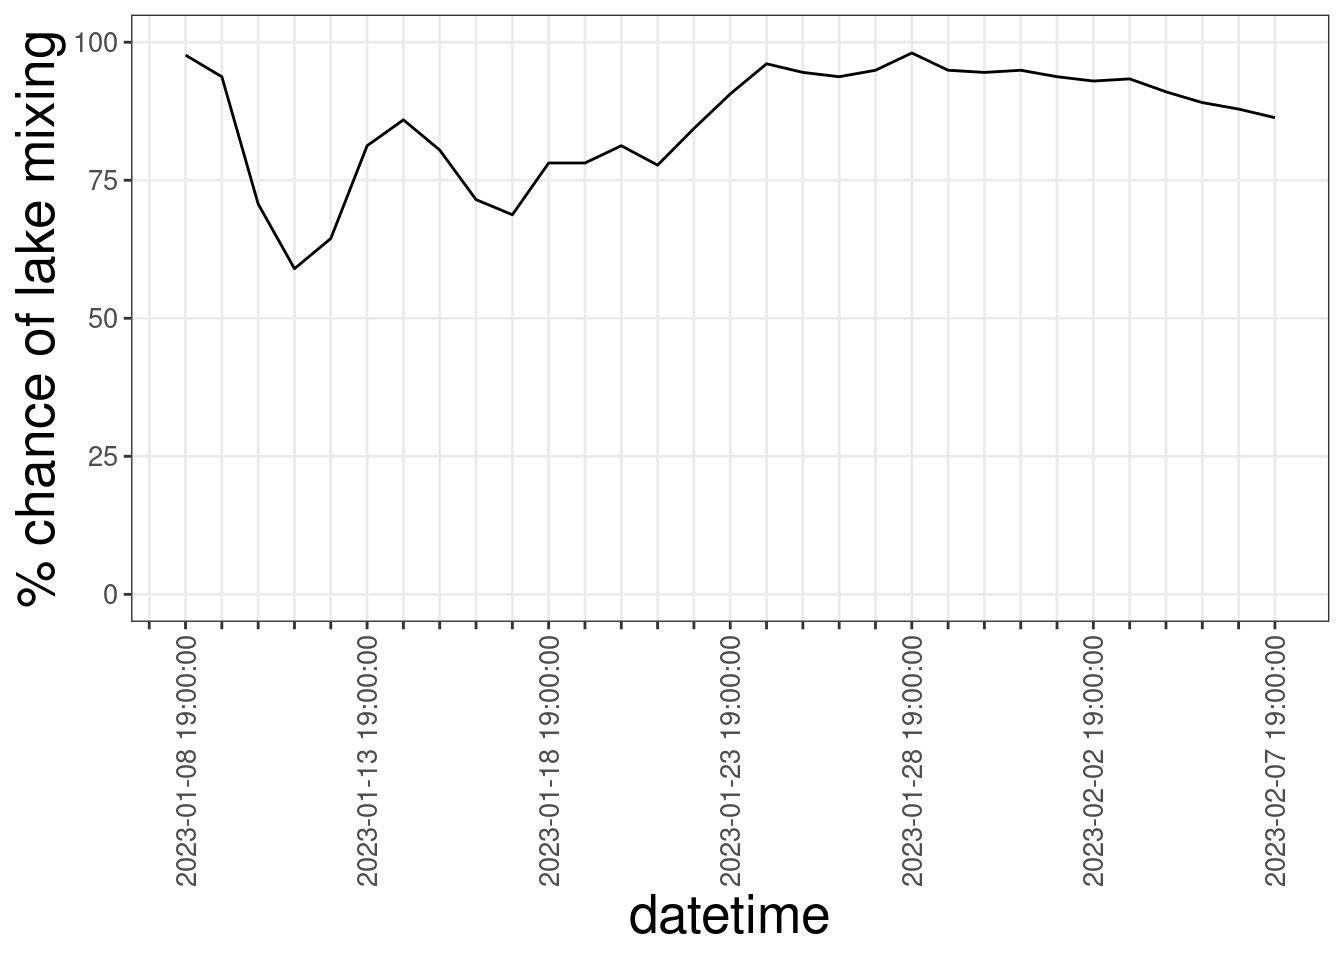
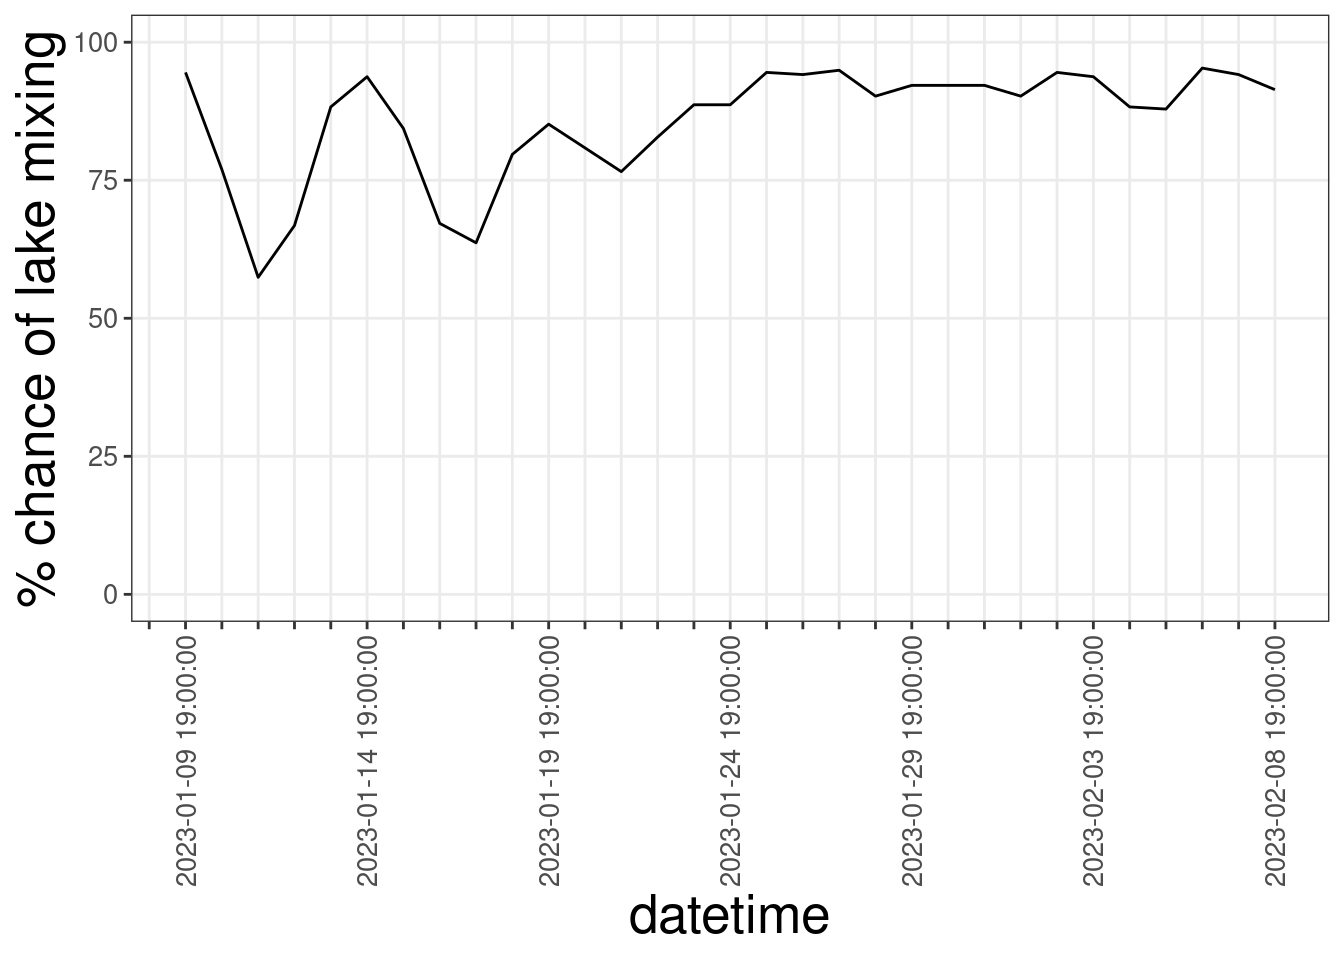
Re-build site

diff --git a/docs/index.html b/docs/index.html
@@ -163,15 +163,15 @@ background-size: cover;
 
 
 <p>Welcome to the Forecasting Lake and Reservoir Ecosystems (FLARE) dashboard!</p>
-<p>This page was last updated on 2023-01-10 07:25:40 (Eastern U.S. time).</p>
+<p>This page was last updated on 2023-01-10 11:37:10 (Eastern U.S. time).</p>
 <p>This dashboard provides daily updates to visualize recent water quality forecasts generated across the world using FLARE system. FLARE iterative updates model simulations using real-time data and quantifies uncertainty in forecasts.</p>
 <section id="flare-sites" class="level3">
 <h3 class="anchored" data-anchor-id="flare-sites">FLARE sites</h3>
 <div class="cell" data-fig.showtext="false">
 <div class="cell-output-display">
 
-<div class="leaflet html-widget html-fill-item-overflow-hidden html-fill-item" id="htmlwidget-b65c73ffd28a7ad15b56" style="width:100%;height:650px;"></div>
-<script type="application/json" data-for="htmlwidget-b65c73ffd28a7ad15b56">{"x":{"options":{"crs":{"crsClass":"L.CRS.EPSG3857","code":null,"proj4def":null,"projectedBounds":null,"options":{}}},"calls":[{"method":"createMapPane","args":["tmap401",401]},{"method":"addProviderTiles","args":["Esri.WorldGrayCanvas",null,"Esri.WorldGrayCanvas",{"minZoom":0,"maxZoom":18,"tileSize":256,"subdomains":"abc","errorTileUrl":"","tms":false,"noWrap":false,"zoomOffset":0,"zoomReverse":false,"opacity":1,"zIndex":1,"detectRetina":false,"pane":"tilePane"}]},{"method":"addProviderTiles","args":["OpenStreetMap",null,"OpenStreetMap",{"minZoom":0,"maxZoom":18,"tileSize":256,"subdomains":"abc","errorTileUrl":"","tms":false,"noWrap":false,"zoomOffset":0,"zoomReverse":false,"opacity":1,"zIndex":1,"detectRetina":false,"pane":"tilePane"}]},{"method":"addProviderTiles","args":["Esri.WorldTopoMap",null,"Esri.WorldTopoMap",{"minZoom":0,"maxZoom":18,"tileSize":256,"subdomains":"abc","errorTileUrl":"","tms":false,"noWrap":false,"zoomOffset":0,"zoomReverse":false,"opacity":1,"zIndex":1,"detectRetina":false,"pane":"tilePane"}]},{"method":"addCircles","args":[[40.2419273912824,35.9955658018487,43.3756101974323,37.2255582212371,30.7934059097805,46.5521470693526,47.08070045983,47.8643887627216,45.3288974492261,33.9845756605613,-34.5141110583632,71.8693548012686],[-80.1352698445389,-82.5261592927336,-72.1752066226015,-79.8497821292904,-85.415477798547,-88.3188734440767,-88.8535741094785,-102.433177172102,-99.8729115931745,-84.1232383148497,-217.635920566558,-146.936677944095],[257151.026484173,257151.026484173,257151.026484173,257151.026484173,257151.026484173,257151.026484173,257151.026484173,257151.026484173,257151.026484173,257151.026484173,257151.026484173,257151.026484173],["Falling.Creek","Beaver.Dam","Lake.Sunapee","Carvins.Cove.Reservoir","Barco.Lake","Crampton.Lake","Little.Rock.Lake","Prairie.Lake","Prairie.Pothole","Suggs.Lake","Lake.Alexandrina","Toolik.Lake"],"neon",{"interactive":true,"className":"","pane":"tmap401","stroke":true,"color":"#666666","weight":1,"opacity":0.5,"fill":true,"fillColor":["#FB8072","#FB8072","#8DD3C7","#FB8072","#FFFFB3","#FFFFB3","#FFFFB3","#FFFFB3","#FFFFB3","#FFFFB3","#BEBADA","#FFFFB3"],"fillOpacity":[1,1,1,1,1,1,1,1,1,1,1,1]},["<style> div.leaflet-popup-content {width:auto !important;overflow-y:auto; overflow-x:hidden;}<\/style><div style=\"max-height:25em;padding-right:0px;\"><table>\n\t\t\t   <thead><tr><th colspan=\"2\"><b>Falling Creek<\/b><\/th><\/thead><\/tr><tr><td style=\"color: #888888;\"><nobr>site_id<\/nobr><\/td><td align=\"right\"><nobr>Falling Creek<\/nobr><\/td><\/tr><\/table><\/div>","<style> div.leaflet-popup-content {width:auto !important;overflow-y:auto; overflow-x:hidden;}<\/style><div style=\"max-height:25em;padding-right:0px;\"><table>\n\t\t\t   <thead><tr><th colspan=\"2\"><b>Beaver Dam<\/b><\/th><\/thead><\/tr><tr><td style=\"color: #888888;\"><nobr>site_id<\/nobr><\/td><td align=\"right\"><nobr>Beaver Dam<\/nobr><\/td><\/tr><\/table><\/div>","<style> div.leaflet-popup-content {width:auto !important;overflow-y:auto; overflow-x:hidden;}<\/style><div style=\"max-height:25em;padding-right:0px;\"><table>\n\t\t\t   <thead><tr><th colspan=\"2\"><b>Lake Sunapee<\/b><\/th><\/thead><\/tr><tr><td style=\"color: #888888;\"><nobr>site_id<\/nobr><\/td><td align=\"right\"><nobr>Lake Sunapee<\/nobr><\/td><\/tr><\/table><\/div>","<style> div.leaflet-popup-content {width:auto !important;overflow-y:auto; overflow-x:hidden;}<\/style><div style=\"max-height:25em;padding-right:0px;\"><table>\n\t\t\t   <thead><tr><th colspan=\"2\"><b>Carvins Cove Reservoir<\/b><\/th><\/thead><\/tr><tr><td style=\"color: #888888;\"><nobr>site_id<\/nobr><\/td><td align=\"right\"><nobr>Carvins Cove Reservoir<\/nobr><\/td><\/tr><\/table><\/div>","<style> div.leaflet-popup-content {width:auto !important;overflow-y:auto; overflow-x:hidden;}<\/style><div style=\"max-height:25em;padding-right:0px;\"><table>\n\t\t\t   <thead><tr><th colspan=\"2\"><b>Barco Lake<\/b><\/th><\/thead><\/tr><tr><td style=\"color: #888888;\"><nobr>site_id<\/nobr><\/td><td align=\"right\"><nobr>Barco Lake<\/nobr><\/td><\/tr><\/table><\/div>","<style> div.leaflet-popup-content {width:auto !important;overflow-y:auto; overflow-x:hidden;}<\/style><div style=\"max-height:25em;padding-right:0px;\"><table>\n\t\t\t   <thead><tr><th colspan=\"2\"><b>Crampton Lake<\/b><\/th><\/thead><\/tr><tr><td style=\"color: #888888;\"><nobr>site_id<\/nobr><\/td><td align=\"right\"><nobr>Crampton Lake<\/nobr><\/td><\/tr><\/table><\/div>","<style> div.leaflet-popup-content {width:auto !important;overflow-y:auto; overflow-x:hidden;}<\/style><div style=\"max-height:25em;padding-right:0px;\"><table>\n\t\t\t   <thead><tr><th colspan=\"2\"><b>Little Rock Lake<\/b><\/th><\/thead><\/tr><tr><td style=\"color: #888888;\"><nobr>site_id<\/nobr><\/td><td align=\"right\"><nobr>Little Rock Lake<\/nobr><\/td><\/tr><\/table><\/div>","<style> div.leaflet-popup-content {width:auto !important;overflow-y:auto; overflow-x:hidden;}<\/style><div style=\"max-height:25em;padding-right:0px;\"><table>\n\t\t\t   <thead><tr><th colspan=\"2\"><b>Prairie Lake<\/b><\/th><\/thead><\/tr><tr><td style=\"color: #888888;\"><nobr>site_id<\/nobr><\/td><td align=\"right\"><nobr>Prairie Lake<\/nobr><\/td><\/tr><\/table><\/div>","<style> div.leaflet-popup-content {width:auto !important;overflow-y:auto; overflow-x:hidden;}<\/style><div style=\"max-height:25em;padding-right:0px;\"><table>\n\t\t\t   <thead><tr><th colspan=\"2\"><b>Prairie Pothole<\/b><\/th><\/thead><\/tr><tr><td style=\"color: #888888;\"><nobr>site_id<\/nobr><\/td><td align=\"right\"><nobr>Prairie Pothole<\/nobr><\/td><\/tr><\/table><\/div>","<style> div.leaflet-popup-content {width:auto !important;overflow-y:auto; overflow-x:hidden;}<\/style><div style=\"max-height:25em;padding-right:0px;\"><table>\n\t\t\t   <thead><tr><th colspan=\"2\"><b>Suggs Lake<\/b><\/th><\/thead><\/tr><tr><td style=\"color: #888888;\"><nobr>site_id<\/nobr><\/td><td align=\"right\"><nobr>Suggs Lake<\/nobr><\/td><\/tr><\/table><\/div>","<style> div.leaflet-popup-content {width:auto !important;overflow-y:auto; overflow-x:hidden;}<\/style><div style=\"max-height:25em;padding-right:0px;\"><table>\n\t\t\t   <thead><tr><th colspan=\"2\"><b>Lake Alexandrina<\/b><\/th><\/thead><\/tr><tr><td style=\"color: #888888;\"><nobr>site_id<\/nobr><\/td><td align=\"right\"><nobr>Lake Alexandrina<\/nobr><\/td><\/tr><\/table><\/div>","<style> div.leaflet-popup-content {width:auto !important;overflow-y:auto; overflow-x:hidden;}<\/style><div style=\"max-height:25em;padding-right:0px;\"><table>\n\t\t\t   <thead><tr><th colspan=\"2\"><b>Toolik Lake<\/b><\/th><\/thead><\/tr><tr><td style=\"color: #888888;\"><nobr>site_id<\/nobr><\/td><td align=\"right\"><nobr>Toolik Lake<\/nobr><\/td><\/tr><\/table><\/div>"],null,["Falling Creek","Beaver Dam","Lake Sunapee","Carvins Cove Reservoir","Barco Lake","Crampton Lake","Little Rock Lake","Prairie Lake","Prairie Pothole","Suggs Lake","Lake Alexandrina","Toolik Lake"],{"interactive":false,"permanent":false,"direction":"auto","opacity":1,"offset":[0,0],"textsize":"10px","textOnly":false,"className":"","sticky":true},null,null]},{"method":"addLegend","args":[{"colors":["#8DD3C7","#FFFFB3","#BEBADA","#FB8072"],"labels":["LSPA","NEON","UWA","WVWA"],"na_color":null,"na_label":"NA","opacity":1,"position":"topright","type":"unknown","title":"Partner","extra":null,"layerId":"legend401","className":"info legend neon","group":"neon"}]},{"method":"addLayersControl","args":[["Esri.WorldGrayCanvas","OpenStreetMap","Esri.WorldTopoMap"],"neon",{"collapsed":true,"autoZIndex":true,"position":"topleft"}]}],"limits":{"lat":[-34.5141110583632,71.8693548012686],"lng":[-217.635920566558,-72.1752066226015]},"fitBounds":[-35.436808,-260,68.630692,-74,[]]},"evals":[],"jsHooks":[]}</script>
+<div class="leaflet html-widget html-fill-item-overflow-hidden html-fill-item" id="htmlwidget-7d3ec7cb6afabbe7321c" style="width:100%;height:650px;"></div>
+<script type="application/json" data-for="htmlwidget-7d3ec7cb6afabbe7321c">{"x":{"options":{"crs":{"crsClass":"L.CRS.EPSG3857","code":null,"proj4def":null,"projectedBounds":null,"options":{}}},"calls":[{"method":"createMapPane","args":["tmap401",401]},{"method":"addProviderTiles","args":["Esri.WorldGrayCanvas",null,"Esri.WorldGrayCanvas",{"minZoom":0,"maxZoom":18,"tileSize":256,"subdomains":"abc","errorTileUrl":"","tms":false,"noWrap":false,"zoomOffset":0,"zoomReverse":false,"opacity":1,"zIndex":1,"detectRetina":false,"pane":"tilePane"}]},{"method":"addProviderTiles","args":["OpenStreetMap",null,"OpenStreetMap",{"minZoom":0,"maxZoom":18,"tileSize":256,"subdomains":"abc","errorTileUrl":"","tms":false,"noWrap":false,"zoomOffset":0,"zoomReverse":false,"opacity":1,"zIndex":1,"detectRetina":false,"pane":"tilePane"}]},{"method":"addProviderTiles","args":["Esri.WorldTopoMap",null,"Esri.WorldTopoMap",{"minZoom":0,"maxZoom":18,"tileSize":256,"subdomains":"abc","errorTileUrl":"","tms":false,"noWrap":false,"zoomOffset":0,"zoomReverse":false,"opacity":1,"zIndex":1,"detectRetina":false,"pane":"tilePane"}]},{"method":"addCircles","args":[[35.9169609386862,37.0045124199095,42.3782749645038,37.0510440172506,31.6805673555669,45.0981357097079,47.6468234472092,48.4561995265473,49.4164921573669,29.17364173548,-35.0194896005535,68.622506489134],[-83.6099320853759,-79.1979686997499,-72.7011414976695,-79.121246796776,-79.1636512875493,-86.9083374572015,-88.086958187396,-99.6585016596734,-99.9412849233391,-79.5788381134474,-219.885628317715,-149.207467801515],[257151.026484173,257151.026484173,257151.026484173,257151.026484173,257151.026484173,257151.026484173,257151.026484173,257151.026484173,257151.026484173,257151.026484173,257151.026484173,257151.026484173],["Falling.Creek","Beaver.Dam","Lake.Sunapee","Carvins.Cove.Reservoir","Barco.Lake","Crampton.Lake","Little.Rock.Lake","Prairie.Lake","Prairie.Pothole","Suggs.Lake","Lake.Alexandrina","Toolik.Lake"],"neon",{"interactive":true,"className":"","pane":"tmap401","stroke":true,"color":"#666666","weight":1,"opacity":0.5,"fill":true,"fillColor":["#FB8072","#FB8072","#8DD3C7","#FB8072","#FFFFB3","#FFFFB3","#FFFFB3","#FFFFB3","#FFFFB3","#FFFFB3","#BEBADA","#FFFFB3"],"fillOpacity":[1,1,1,1,1,1,1,1,1,1,1,1]},["<style> div.leaflet-popup-content {width:auto !important;overflow-y:auto; overflow-x:hidden;}<\/style><div style=\"max-height:25em;padding-right:0px;\"><table>\n\t\t\t   <thead><tr><th colspan=\"2\"><b>Falling Creek<\/b><\/th><\/thead><\/tr><tr><td style=\"color: #888888;\"><nobr>site_id<\/nobr><\/td><td align=\"right\"><nobr>Falling Creek<\/nobr><\/td><\/tr><\/table><\/div>","<style> div.leaflet-popup-content {width:auto !important;overflow-y:auto; overflow-x:hidden;}<\/style><div style=\"max-height:25em;padding-right:0px;\"><table>\n\t\t\t   <thead><tr><th colspan=\"2\"><b>Beaver Dam<\/b><\/th><\/thead><\/tr><tr><td style=\"color: #888888;\"><nobr>site_id<\/nobr><\/td><td align=\"right\"><nobr>Beaver Dam<\/nobr><\/td><\/tr><\/table><\/div>","<style> div.leaflet-popup-content {width:auto !important;overflow-y:auto; overflow-x:hidden;}<\/style><div style=\"max-height:25em;padding-right:0px;\"><table>\n\t\t\t   <thead><tr><th colspan=\"2\"><b>Lake Sunapee<\/b><\/th><\/thead><\/tr><tr><td style=\"color: #888888;\"><nobr>site_id<\/nobr><\/td><td align=\"right\"><nobr>Lake Sunapee<\/nobr><\/td><\/tr><\/table><\/div>","<style> div.leaflet-popup-content {width:auto !important;overflow-y:auto; overflow-x:hidden;}<\/style><div style=\"max-height:25em;padding-right:0px;\"><table>\n\t\t\t   <thead><tr><th colspan=\"2\"><b>Carvins Cove Reservoir<\/b><\/th><\/thead><\/tr><tr><td style=\"color: #888888;\"><nobr>site_id<\/nobr><\/td><td align=\"right\"><nobr>Carvins Cove Reservoir<\/nobr><\/td><\/tr><\/table><\/div>","<style> div.leaflet-popup-content {width:auto !important;overflow-y:auto; overflow-x:hidden;}<\/style><div style=\"max-height:25em;padding-right:0px;\"><table>\n\t\t\t   <thead><tr><th colspan=\"2\"><b>Barco Lake<\/b><\/th><\/thead><\/tr><tr><td style=\"color: #888888;\"><nobr>site_id<\/nobr><\/td><td align=\"right\"><nobr>Barco Lake<\/nobr><\/td><\/tr><\/table><\/div>","<style> div.leaflet-popup-content {width:auto !important;overflow-y:auto; overflow-x:hidden;}<\/style><div style=\"max-height:25em;padding-right:0px;\"><table>\n\t\t\t   <thead><tr><th colspan=\"2\"><b>Crampton Lake<\/b><\/th><\/thead><\/tr><tr><td style=\"color: #888888;\"><nobr>site_id<\/nobr><\/td><td align=\"right\"><nobr>Crampton Lake<\/nobr><\/td><\/tr><\/table><\/div>","<style> div.leaflet-popup-content {width:auto !important;overflow-y:auto; overflow-x:hidden;}<\/style><div style=\"max-height:25em;padding-right:0px;\"><table>\n\t\t\t   <thead><tr><th colspan=\"2\"><b>Little Rock Lake<\/b><\/th><\/thead><\/tr><tr><td style=\"color: #888888;\"><nobr>site_id<\/nobr><\/td><td align=\"right\"><nobr>Little Rock Lake<\/nobr><\/td><\/tr><\/table><\/div>","<style> div.leaflet-popup-content {width:auto !important;overflow-y:auto; overflow-x:hidden;}<\/style><div style=\"max-height:25em;padding-right:0px;\"><table>\n\t\t\t   <thead><tr><th colspan=\"2\"><b>Prairie Lake<\/b><\/th><\/thead><\/tr><tr><td style=\"color: #888888;\"><nobr>site_id<\/nobr><\/td><td align=\"right\"><nobr>Prairie Lake<\/nobr><\/td><\/tr><\/table><\/div>","<style> div.leaflet-popup-content {width:auto !important;overflow-y:auto; overflow-x:hidden;}<\/style><div style=\"max-height:25em;padding-right:0px;\"><table>\n\t\t\t   <thead><tr><th colspan=\"2\"><b>Prairie Pothole<\/b><\/th><\/thead><\/tr><tr><td style=\"color: #888888;\"><nobr>site_id<\/nobr><\/td><td align=\"right\"><nobr>Prairie Pothole<\/nobr><\/td><\/tr><\/table><\/div>","<style> div.leaflet-popup-content {width:auto !important;overflow-y:auto; overflow-x:hidden;}<\/style><div style=\"max-height:25em;padding-right:0px;\"><table>\n\t\t\t   <thead><tr><th colspan=\"2\"><b>Suggs Lake<\/b><\/th><\/thead><\/tr><tr><td style=\"color: #888888;\"><nobr>site_id<\/nobr><\/td><td align=\"right\"><nobr>Suggs Lake<\/nobr><\/td><\/tr><\/table><\/div>","<style> div.leaflet-popup-content {width:auto !important;overflow-y:auto; overflow-x:hidden;}<\/style><div style=\"max-height:25em;padding-right:0px;\"><table>\n\t\t\t   <thead><tr><th colspan=\"2\"><b>Lake Alexandrina<\/b><\/th><\/thead><\/tr><tr><td style=\"color: #888888;\"><nobr>site_id<\/nobr><\/td><td align=\"right\"><nobr>Lake Alexandrina<\/nobr><\/td><\/tr><\/table><\/div>","<style> div.leaflet-popup-content {width:auto !important;overflow-y:auto; overflow-x:hidden;}<\/style><div style=\"max-height:25em;padding-right:0px;\"><table>\n\t\t\t   <thead><tr><th colspan=\"2\"><b>Toolik Lake<\/b><\/th><\/thead><\/tr><tr><td style=\"color: #888888;\"><nobr>site_id<\/nobr><\/td><td align=\"right\"><nobr>Toolik Lake<\/nobr><\/td><\/tr><\/table><\/div>"],null,["Falling Creek","Beaver Dam","Lake Sunapee","Carvins Cove Reservoir","Barco Lake","Crampton Lake","Little Rock Lake","Prairie Lake","Prairie Pothole","Suggs Lake","Lake Alexandrina","Toolik Lake"],{"interactive":false,"permanent":false,"direction":"auto","opacity":1,"offset":[0,0],"textsize":"10px","textOnly":false,"className":"","sticky":true},null,null]},{"method":"addLegend","args":[{"colors":["#8DD3C7","#FFFFB3","#BEBADA","#FB8072"],"labels":["LSPA","NEON","UWA","WVWA"],"na_color":null,"na_label":"NA","opacity":1,"position":"topright","type":"unknown","title":"Partner","extra":null,"layerId":"legend401","className":"info legend neon","group":"neon"}]},{"method":"addLayersControl","args":[["Esri.WorldGrayCanvas","OpenStreetMap","Esri.WorldTopoMap"],"neon",{"collapsed":true,"autoZIndex":true,"position":"topleft"}]}],"limits":{"lat":[-35.0194896005535,68.622506489134],"lng":[-219.885628317715,-72.7011414976695]},"fitBounds":[-35.436808,-260,68.630692,-74,[]]},"evals":[],"jsHooks":[]}</script>
 </div>
 </div>
 <p>This material is based upon work supported by the National Science Foundation as part of awards CNS-1737424, DBI-1933102, and DBI-1933016. Any opinions, findings, and conclusions or recommendations expressed in this material are those of the author(s) and do not necessarily reflect the views of the National Science Foundation.</p>

diff --git a/docs/fcre.html b/docs/fcre.html
@@ -142,8 +142,6 @@ background-size: cover;
    
   <ul>
   <li><a href="#most-recent-forecasts" id="toc-most-recent-forecasts" class="nav-link active" data-scroll-target="#most-recent-forecasts">Most recent forecasts</a></li>
-  <li><a href="#beaver-dam-reservoir" id="toc-beaver-dam-reservoir" class="nav-link" data-scroll-target="#beaver-dam-reservoir">Beaver Dam Reservoir</a></li>
-  <li><a href="#carvins-cove-reservoir" id="toc-carvins-cove-reservoir" class="nav-link" data-scroll-target="#carvins-cove-reservoir">Carvins Cove Reservoir</a></li>
   </ul>
 <div class="toc-actions"><div><i class="bi bi-github"></i></div><div class="action-links"><p><a href="https://github.com/rqthomas/flare-dashboard/edit/main/fcre.qmd" class="toc-action">Edit this page</a></p><p><a href="https://github.com/rqthomas/flare-dashboard/issues/new" class="toc-action">Report an issue</a></p></div></div></nav>
     </div>
@@ -159,7 +157,10 @@ background-size: cover;
 <section id="most-recent-forecasts" class="level2">
 <h2 class="anchored" data-anchor-id="most-recent-forecasts">Most recent forecasts</h2>
 <p>Below are forecasts for three reservoirs managed by the Western Virginia Water Authority (WVWA). The WVWA is the primary supplier of drinking water to the Roanoke, VA region.</p>
-<p>::: panel-tabset ## Falling Creek Reservoir</p>
+<div class="panel-tabset">
+<ul class="nav nav-tabs" role="tablist"><li class="nav-item" role="presentation"><a class="nav-link active" id="tabset-1-1-tab" data-bs-toggle="tab" data-bs-target="#tabset-1-1" role="tab" aria-controls="tabset-1-1" aria-selected="true">Falling Creek Reservoir</a></li><li class="nav-item" role="presentation"><a class="nav-link" id="tabset-1-2-tab" data-bs-toggle="tab" data-bs-target="#tabset-1-2" role="tab" aria-controls="tabset-1-2" aria-selected="false">Beaver Dam Reservoir</a></li><li class="nav-item" role="presentation"><a class="nav-link" id="tabset-1-3-tab" data-bs-toggle="tab" data-bs-target="#tabset-1-3" role="tab" aria-controls="tabset-1-3" aria-selected="false">Carvins Cove Reservoir</a></li></ul>
+<div class="tab-content">
+<div id="tabset-1-1" class="tab-pane active" role="tabpanel" aria-labelledby="tabset-1-1-tab">
 <div class="cell" data-fig.showtext="false">
 
 </div>
@@ -194,9 +195,8 @@ background-size: cover;
 <div class="cell" data-fig.showtext="false">
 
 </div>
-</section>
-<section id="beaver-dam-reservoir" class="level2">
-<h2 class="anchored" data-anchor-id="beaver-dam-reservoir">Beaver Dam Reservoir</h2>
+</div>
+<div id="tabset-1-2" class="tab-pane" role="tabpanel" aria-labelledby="tabset-1-2-tab">
 <div class="cell" data-fig.showtext="false">
 
 </div>
@@ -222,9 +222,8 @@ background-size: cover;
 <div class="cell" data-fig.showtext="false">
 
 </div>
-</section>
-<section id="carvins-cove-reservoir" class="level2">
-<h2 class="anchored" data-anchor-id="carvins-cove-reservoir">Carvins Cove Reservoir</h2>
+</div>
+<div id="tabset-1-3" class="tab-pane" role="tabpanel" aria-labelledby="tabset-1-3-tab">
 <div class="cell" data-fig.showtext="false">
 
 </div>
@@ -249,6 +248,9 @@ background-size: cover;
 </div>
 <div class="cell" data-fig.showtext="false">
 
+</div>
+</div>
+</div>
 </div>
 
 

diff --git a/docs/neon.html b/docs/neon.html
@@ -183,7 +183,7 @@ background-size: cover;
 <div class="cell" data-fig.showtext="false">
 
 </div>
-<p>The most recent forecast is from 2023-01-08 19:00:00 (Eastern U.S. time).</p>
+<p>The most recent forecast is from 2023-01-09 19:00:00 (Eastern U.S. time).</p>
 <div class="cell" data-fig.showtext="false">
 <div class="cell-output-display">
 <p><img src="neon_files/figure-html/cram-temp-1.png" class="img-fluid" width="672"></p>
